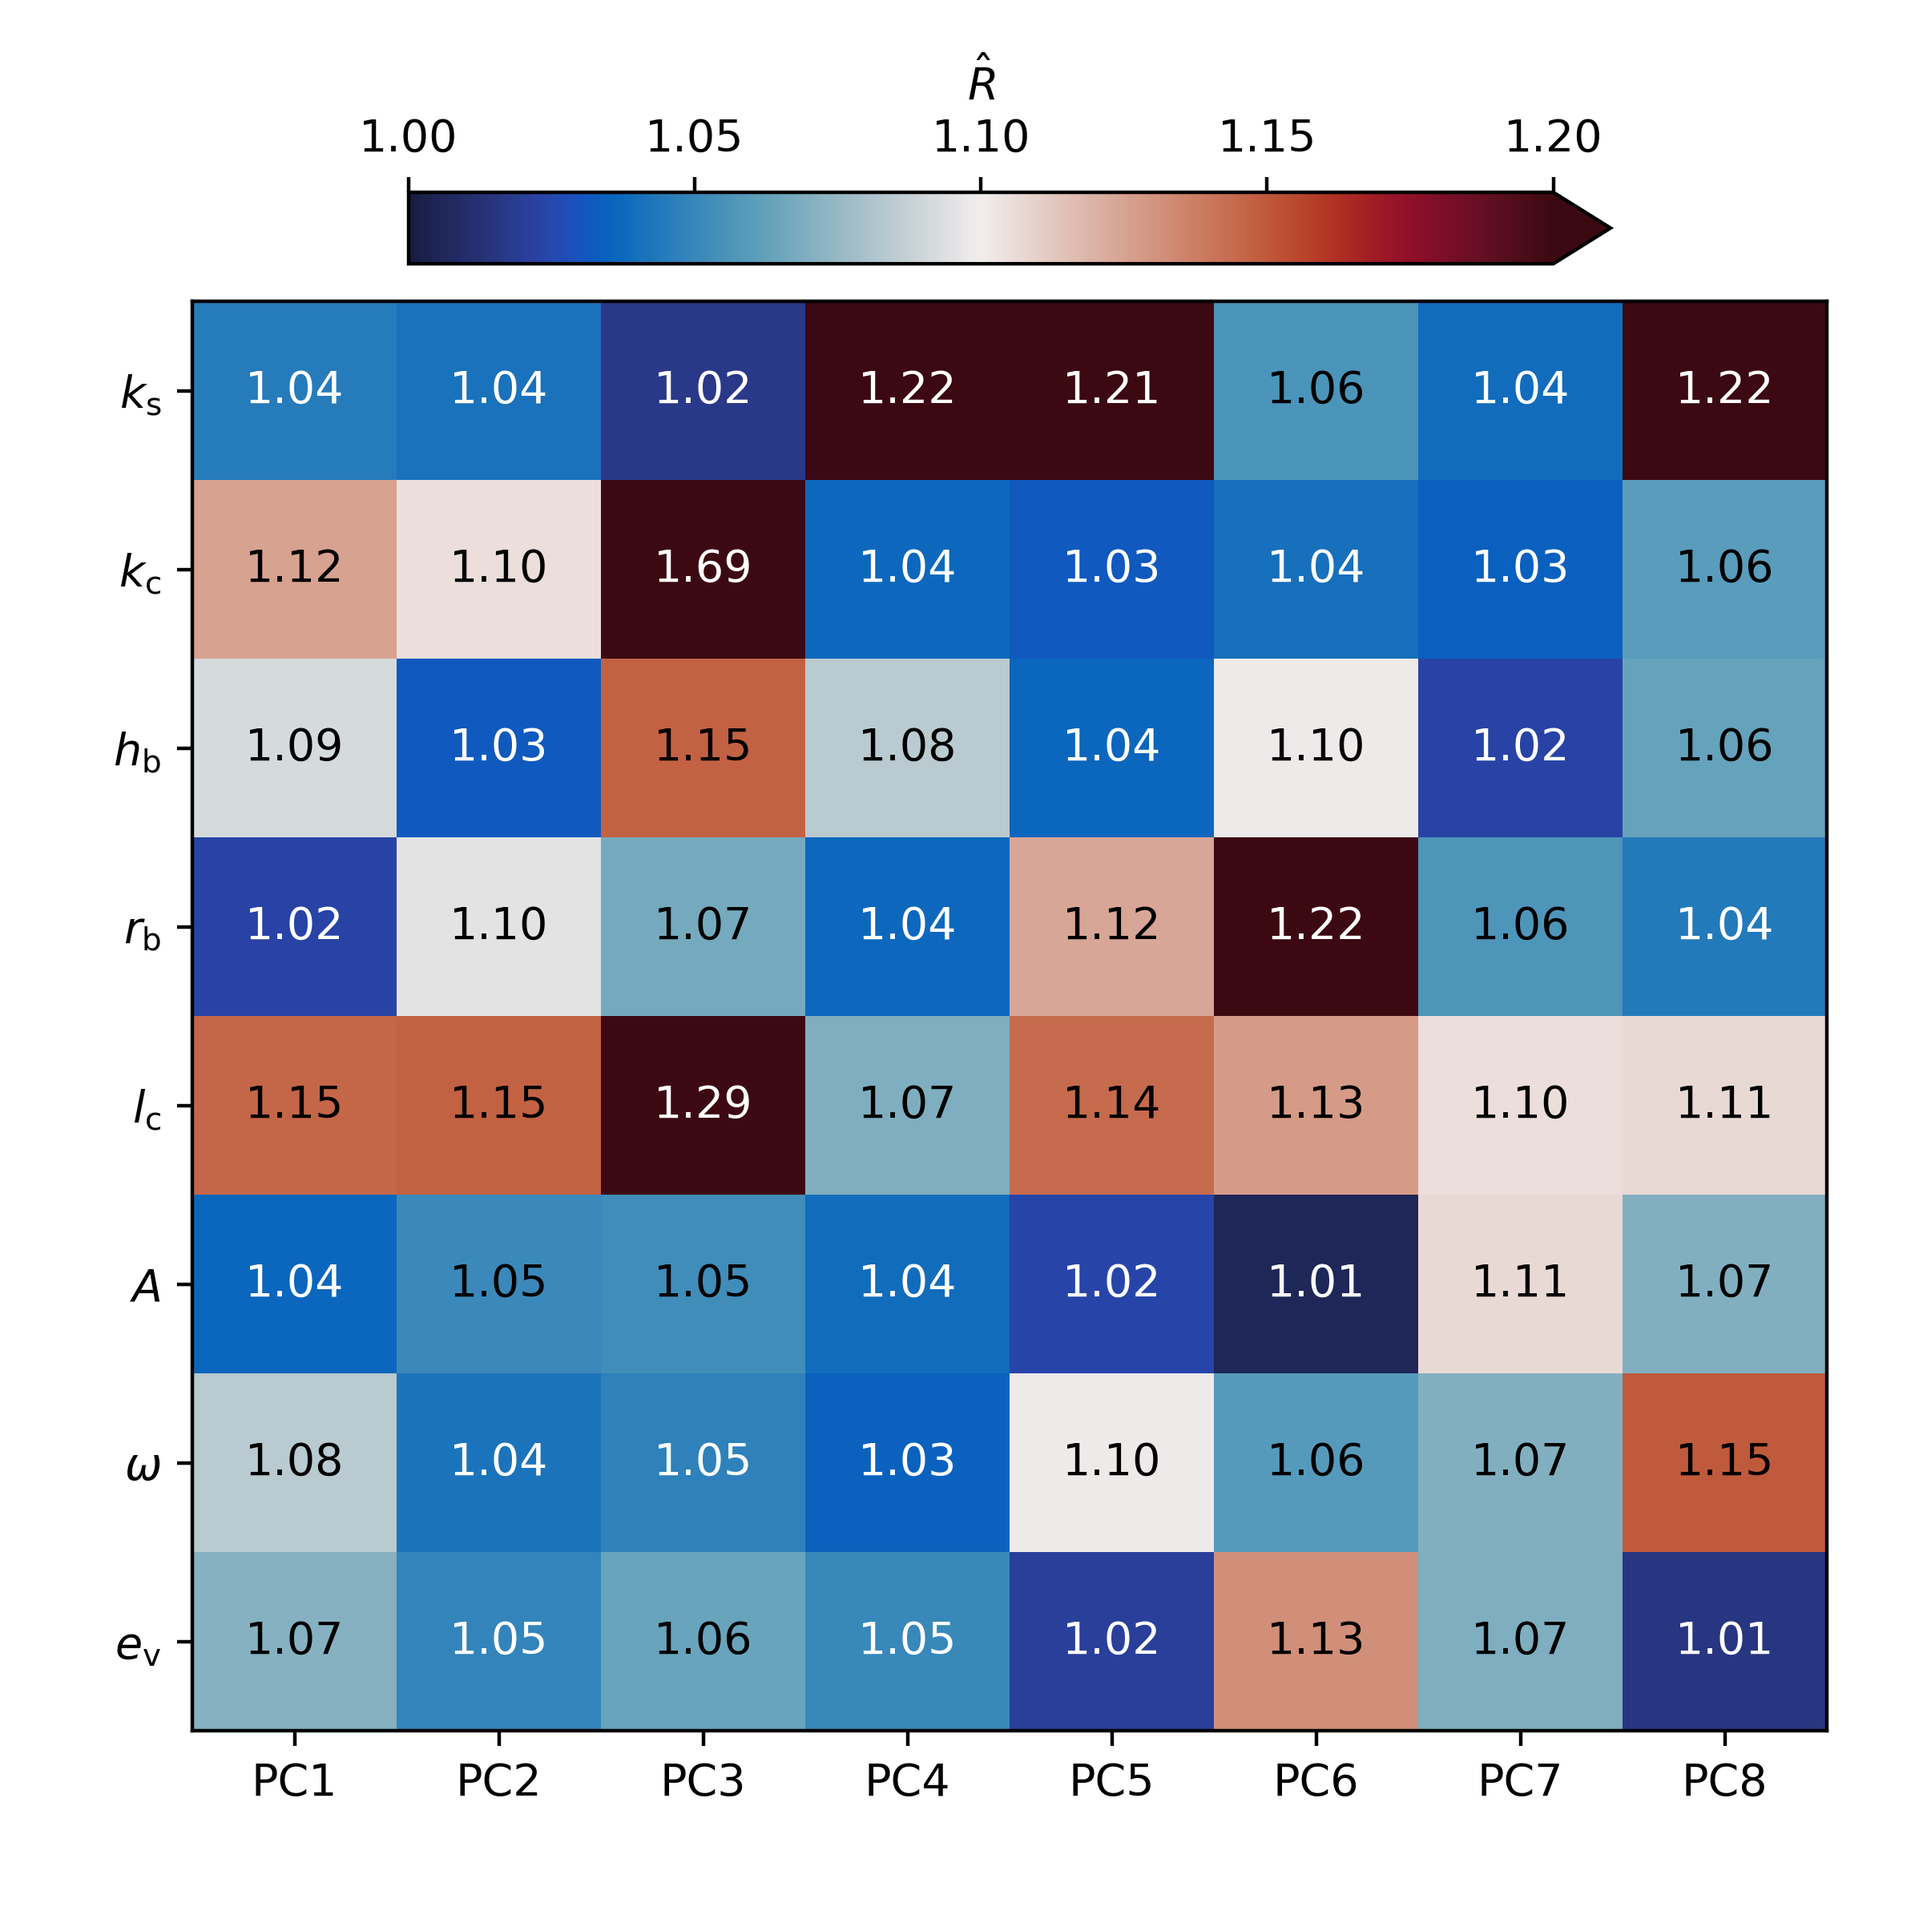
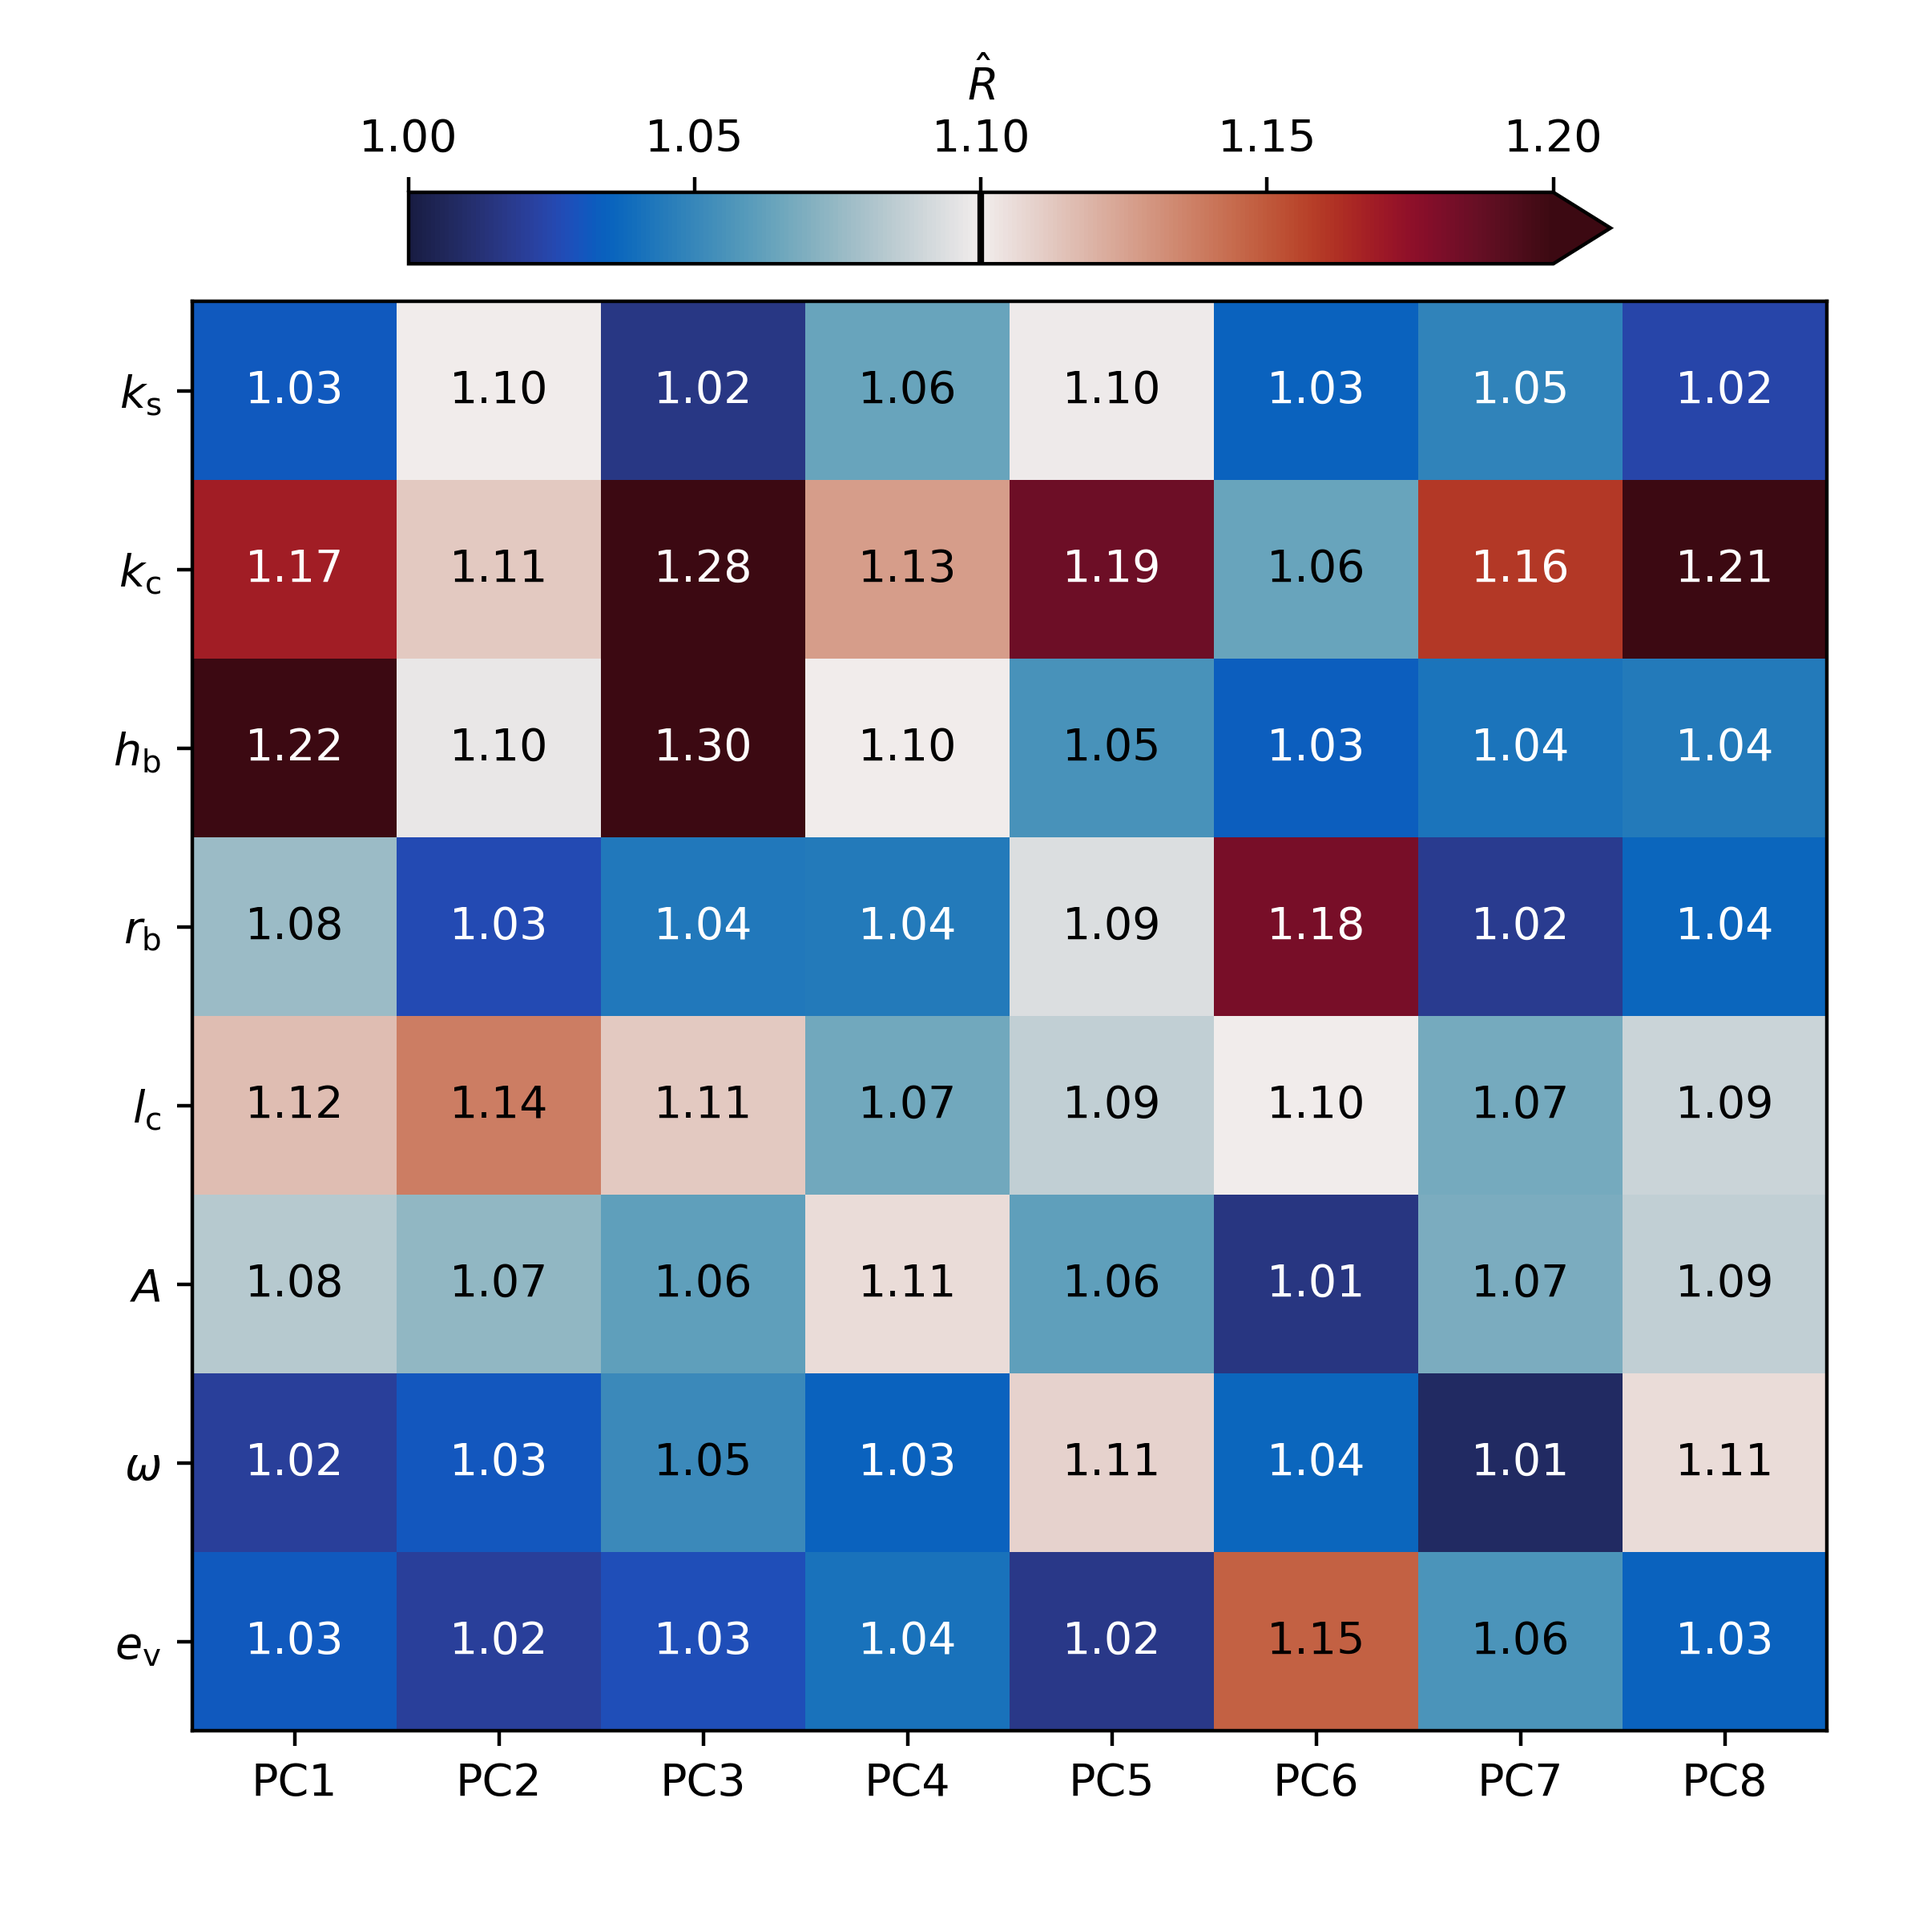
R-hat and ESS

diff --git a/experiments/synthetic/analysis/mcmc_diagnostics_simple.py b/experiments/synthetic/analysis/mcmc_diagnostics_simple.py
@@ -51,6 +51,7 @@ def mcmc_trace(train_config, recompute=True):
 
     for i,ax in enumerate(axs):
         ax.set_xlim([0, n_samples])
+        ax.set_xticks([0, 128, 256, 256+128, 512])
         ax.grid(linestyle=':')
 
     axs[-1].set_xlabel('Iteration')
@@ -61,6 +62,7 @@ def mcmc_trace(train_config, recompute=True):
     # for pc in range(train_config.p):
     accept_rate = np.zeros((8, train_config.p))
     Rhat = np.zeros((8, train_config.p))
+    Neff = np.zeros((8, train_config.p))
     nburn = 256
     for para in range(8):
         for pc in range(train_config.p):
@@ -71,40 +73,17 @@ def mcmc_trace(train_config, recompute=True):
             acceptance = np.ones((n_samples-nburn-1))
             acceptance[b2[1:]==b2[:-1]] = 0
             accept_rate[para, pc] = acceptance.sum()/len(acceptance)
-    
-    print('Acceptance:', accept_rate)
-    print('Mean:', accept_rate.mean())
-    print('Median:', np.median(accept_rate))
-    print('Min/max:', accept_rate.min(), accept_rate.max())
-    print('Median for each parameter:', np.median(accept_rate, axis=1))
-    print('Median for each PC:', np.median(accept_rate, axis=0))
-
-    bad_chains = np.where(np.abs(accept_rate-0.45)>0.25)
-    print(bad_chains)
-    print(accept_rate[bad_chains])
 
     # 3. GELMAN CONVERGENCE STATISTIC R^HAT
-
+    chains = []
+    n_repeats = 4
+    n_samples = 256
+    n_burn = 256
+    d = 8
     if recompute:
         data,model = mtools.load_model(train_config, train_config.m, train_config.p)
         model.clear_samples()
-        chains = []
-        n_repeats = 4
-        n_samples = 256
-        n_burn = 256
-        d = 8
-        sim_data = data.sim_data
 
-        # w = np.dot(np.linalg.pinv(sim_data.K).T, sim_data.y_std.T).T
-        # y_sim_std_hat = np.dot(w, sim_data.K)
-        # pc_resid = sim_data.y_std - y_sim_std_hat
-        # pc_var = np.var(pc_resid)
-        # pc_prec = 1/pc_var
-        # print('pc variance:', pc_var)
-        # print('pc precision:', pc_prec)
-        
-        # model.print_value_info()
-        # model.print_mcmc_info()
         beta_start = model.params.betaU.val.copy()
         rng = np.random.default_rng()
         for repeat in range(n_repeats):
@@ -131,7 +110,6 @@ def mcmc_trace(train_config, recompute=True):
 
         for para in range(8):
             for pc in range(train_config.p):
-            # for pc in range(8):
                 phi = betas_split[:, :, para, pc]
 
                 # between-chain variance
@@ -146,20 +124,64 @@ def mcmc_trace(train_config, recompute=True):
 
                 varhat = (n-1)*W/n + B/n
                 Rhat[para, pc] = np.sqrt(varhat/W)
+
+                rhot = np.zeros(n)
+                for ti in range(1,n):
+                    phiss = phi[:, ti:]
+                    philag = phi[:, :-ti]
+                    Vt = np.sum((phiss-philag)**2)/m/(n-ti)
+                    rhot[ti] = 1 - Vt/2/varhat
+                T = 1
+                for ti in range(1, n-1):
+                    if ti%2==1:
+                        if (rhot[ti]+rhot[ti+1])<0:
+                            T = ti
+                            break
+                else:
+                    T = n-1
+
+                rhotsum = np.sum(rhot[:T])
+                n_eff = m*n/(1 + 2*rhotsum)
+                Neff[para, pc] = n_eff
         
-
         np.savetxt('data/Rhat.txt', Rhat, delimiter=',', fmt='%.3e')
-    
+        np.savetxt('data/Neff.txt', Neff, delimiter=',', fmt='%.3e')
+        
     Rhat = np.loadtxt('data/Rhat.txt', delimiter=',')
+    Neff = np.loadtxt('data/Neff.txt', delimiter=',')
 
-    print('Rhat:', Rhat)
+    print()
+    print('Using m={} chains'.format(n_repeats))
+    print('Using n={} samples per full chain'.format(n_samples))
+    print('Warm-up period of {} samples'.format(n_burn))
+
+    print()
+    print('Acceptance:')
+    print(accept_rate)
+    print('Mean:', accept_rate.mean())
+    print('Median:', np.median(accept_rate))
+    print('Min/max:', accept_rate.min(), accept_rate.max())
+    print('Median for each parameter:', np.median(accept_rate, axis=1))
+    print('Median for each PC:', np.median(accept_rate, axis=0))
+
+    print()
+    print('Rhat:')
+    print(Rhat)
     print('Mean:', Rhat.mean())
     print('Median:', np.median(Rhat))
     print('Min/max:', Rhat.min(), Rhat.max())
     print('Median for each parameter:', np.median(Rhat, axis=1))
     print('Median for each PC:', np.median(Rhat, axis=0))
 
-    # fig,ax = plt.subplots(figsize=(6, 6))
+    print()
+    print('Neff:')
+    print(Neff)
+    print('Mean:', Neff.mean())
+    print('Median:', np.median(Neff))
+    print('Min/max:', Neff.min(), Neff.max())
+    print('Median for each parameter:', np.median(Neff, axis=1))
+    print('Median for each PC:', np.median(Neff, axis=0))
+
     fig = plt.figure(figsize=(6, 6))
     gs = GridSpec(2, 3, height_ratios=(5, 100), width_ratios=(10, 100, 10),
         left=0.1, bottom=0.1, right=0.95, top=0.9,
@@ -180,6 +202,7 @@ def mcmc_trace(train_config, recompute=True):
     cbar.set_label(r'$\hat R$')
     cax.xaxis.tick_top()
     cax.xaxis.set_label_position('top')
+    cax.axvline(1.10, color='k')
     cbar.set_ticks([1, 1.05, 1.1, 1.15, 1.2])
 
     for para in range(8):
@@ -191,6 +214,37 @@ def mcmc_trace(train_config, recompute=True):
     fig.savefig('figures/Rhat.png', dpi=400)
 
 
+
+    fig = plt.figure(figsize=(6, 6))
+    gs = GridSpec(2, 3, height_ratios=(5, 100), width_ratios=(10, 100, 10),
+        left=0.1, bottom=0.1, right=0.95, top=0.9,
+        hspace=0.05)
+    ax = fig.add_subplot(gs[1,:])
+    cax = fig.add_subplot(gs[0,1])
+    thetas = np.arange(8)
+    pcs = np.arange(train_config.p)
+    [pp, tt] = np.meshgrid(pcs, thetas)
+
+    pcolor = ax.pcolormesh(pp, tt, Neff, vmin=0, vmax=20*n_repeats, cmap=cmocean.cm.balance_r)
+    ax.set_yticks(np.arange(8), train_config.theta_names)
+    xticks = ['PC{}'.format(ii) for ii in range(1, train_config.p+1)]
+    ax.set_xticks(np.arange(train_config.p), xticks)
+    ax.invert_yaxis()
+
+    cbar = fig.colorbar(pcolor, cax=cax, orientation='horizontal', extend='max')
+    cbar.set_label(r'$N_{\rm{eff}}$')
+    cax.xaxis.tick_top()
+    cax.xaxis.set_label_position('top')
+    cax.axvline(10*n_repeats, color='k')
+    # cbar.set_ticks([1, 1.05, 1.1, 1.15, 1.2])
+
+    for para in range(8):
+        for pc in range(train_config.p):
+            Ni = Neff[para,pc]
+            tcol = 'k' if (np.abs(Ni-10*n_repeats)<=5*n_repeats) else 'w'
+            ax.text(pc, para, '{:.2f}'.format(Ni), color=tcol, ha='center', va='center')
+    
+    fig.savefig('figures/Neff.png', dpi=400)
 
 def main():
     parser = argparse.ArgumentParser()
